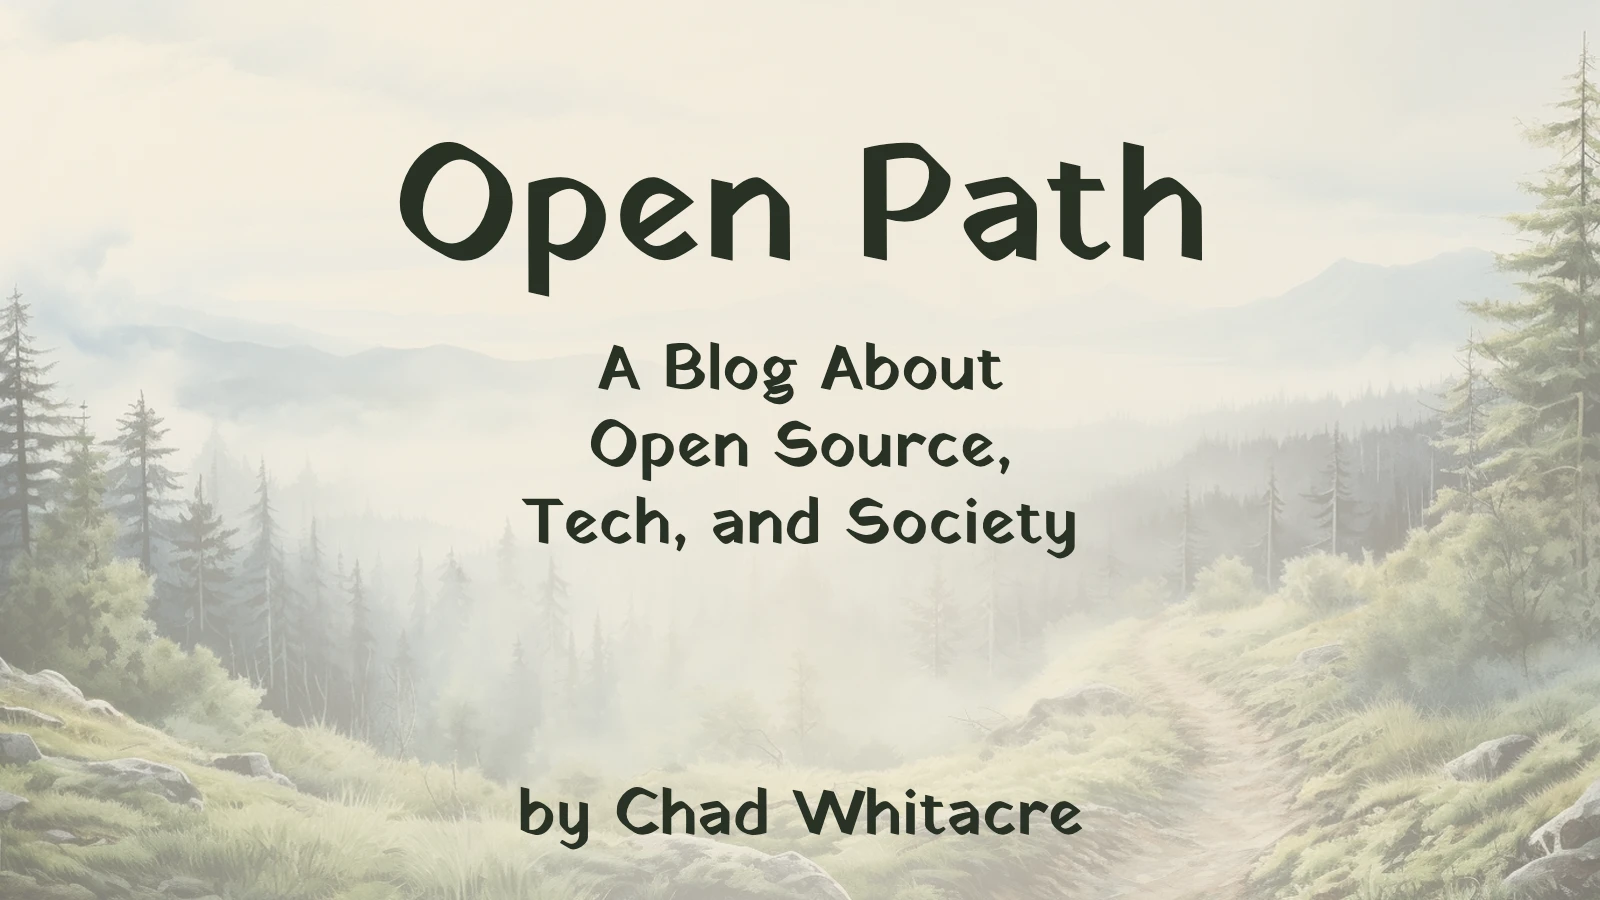
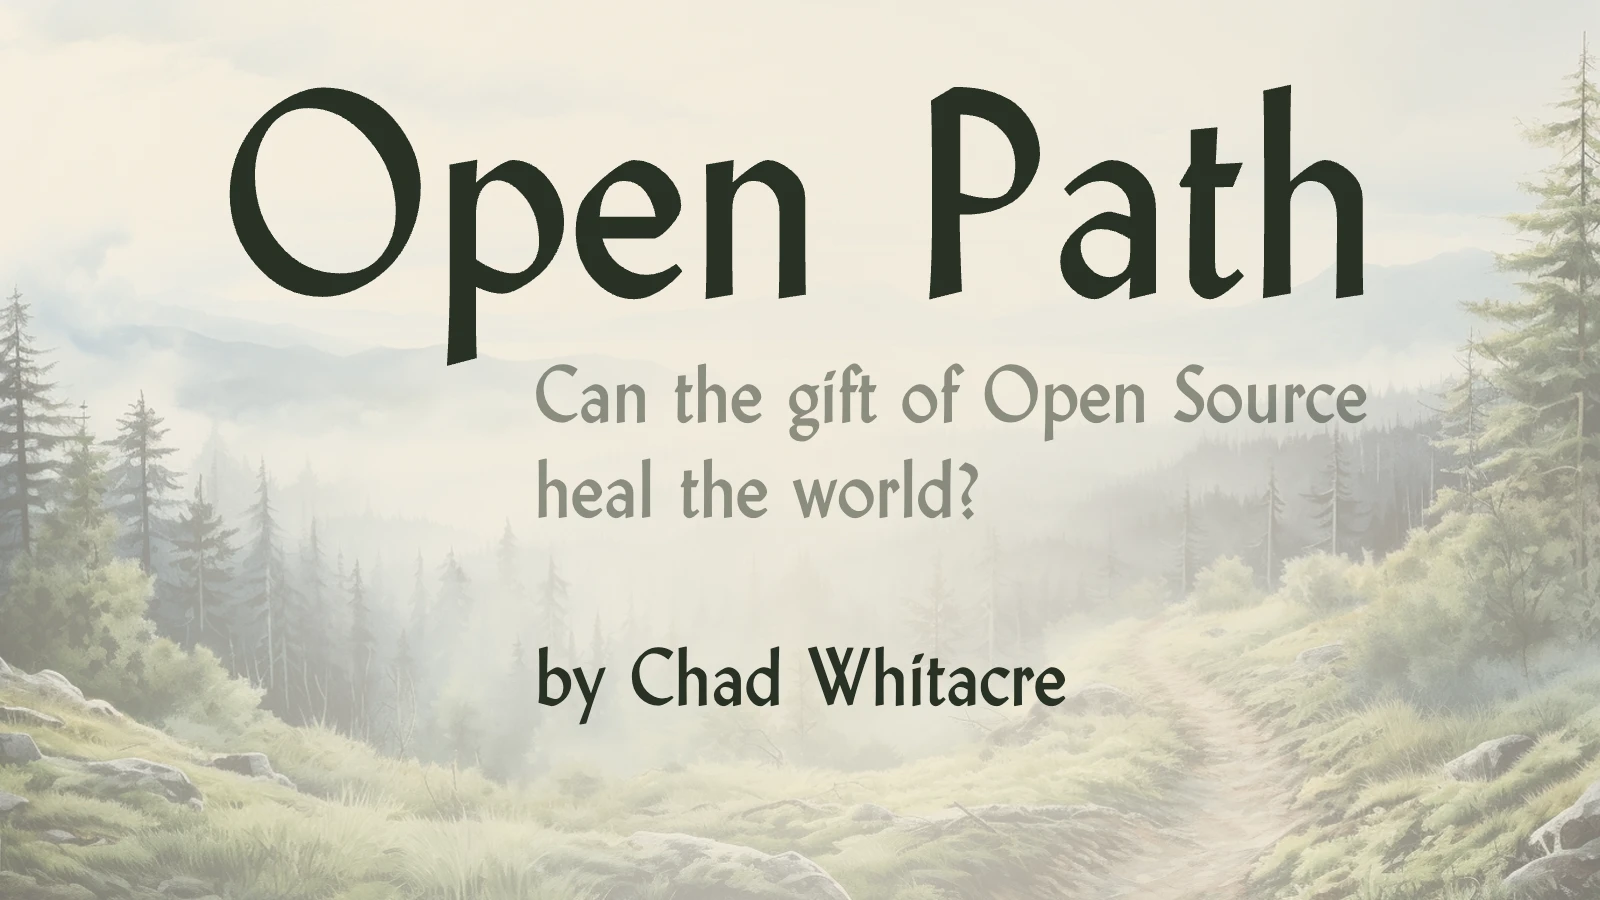
Tagline

diff --git a/index.html b/index.html
@@ -2,7 +2,7 @@
 layout: default
 # For page meta, keep in sync with _config.yml
 title: "Open Path by Chad Whitacre"
-excerpt: "Can Open Source heal the world, at least a little?"
+excerpt: "Can the gift of Open Source heal the world?"
 ---
 
 <section class="intro">
@@ -23,7 +23,7 @@ excerpt: "Can Open Source heal the world, at least a little?"
     <p>
       Open Path is a
       <a href="https://www.youtube.com/shorts/-FiLGdySj7M">show</a> about my
-      quest to see if Open Source can heal the world, at least a little.
+      quest to see if the gift of Open Source can heal the world.
     </p>
 
     <p>Thanks for visiting! 💃</p>
